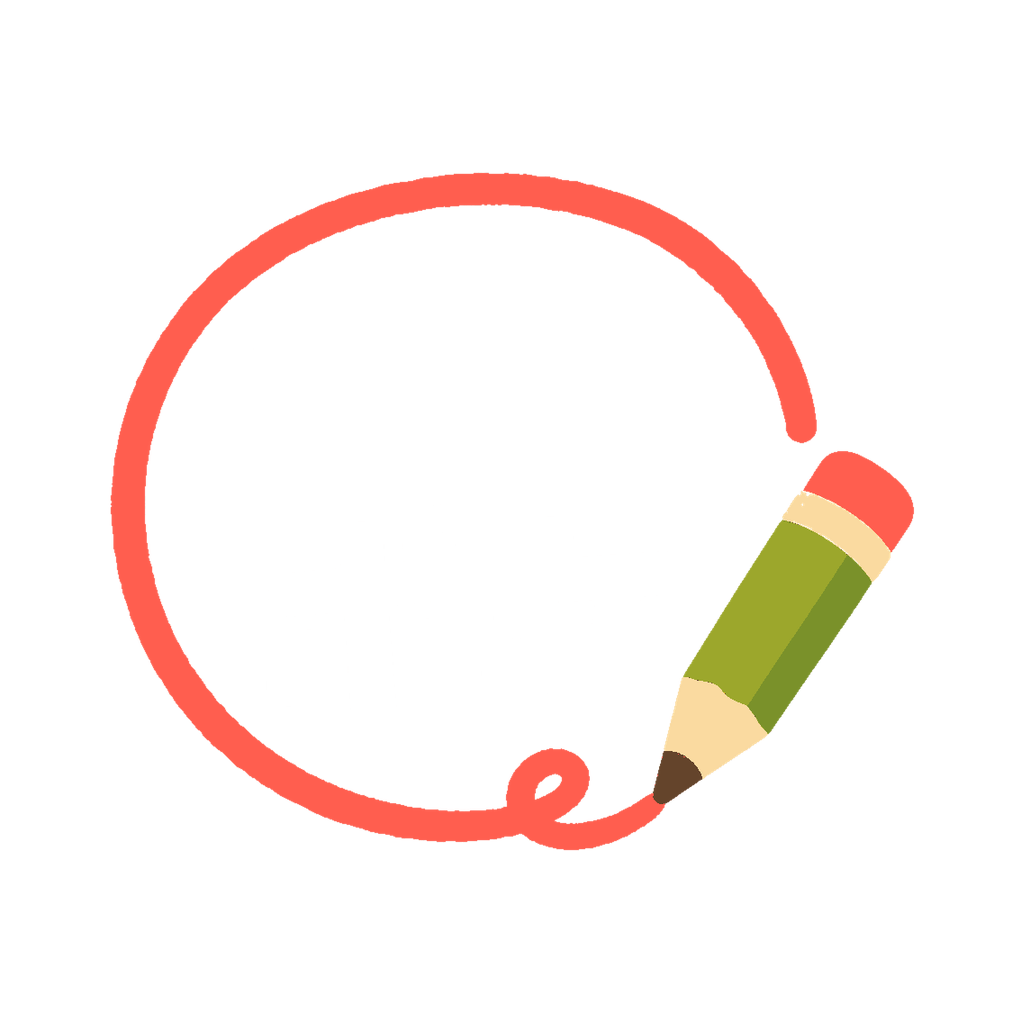
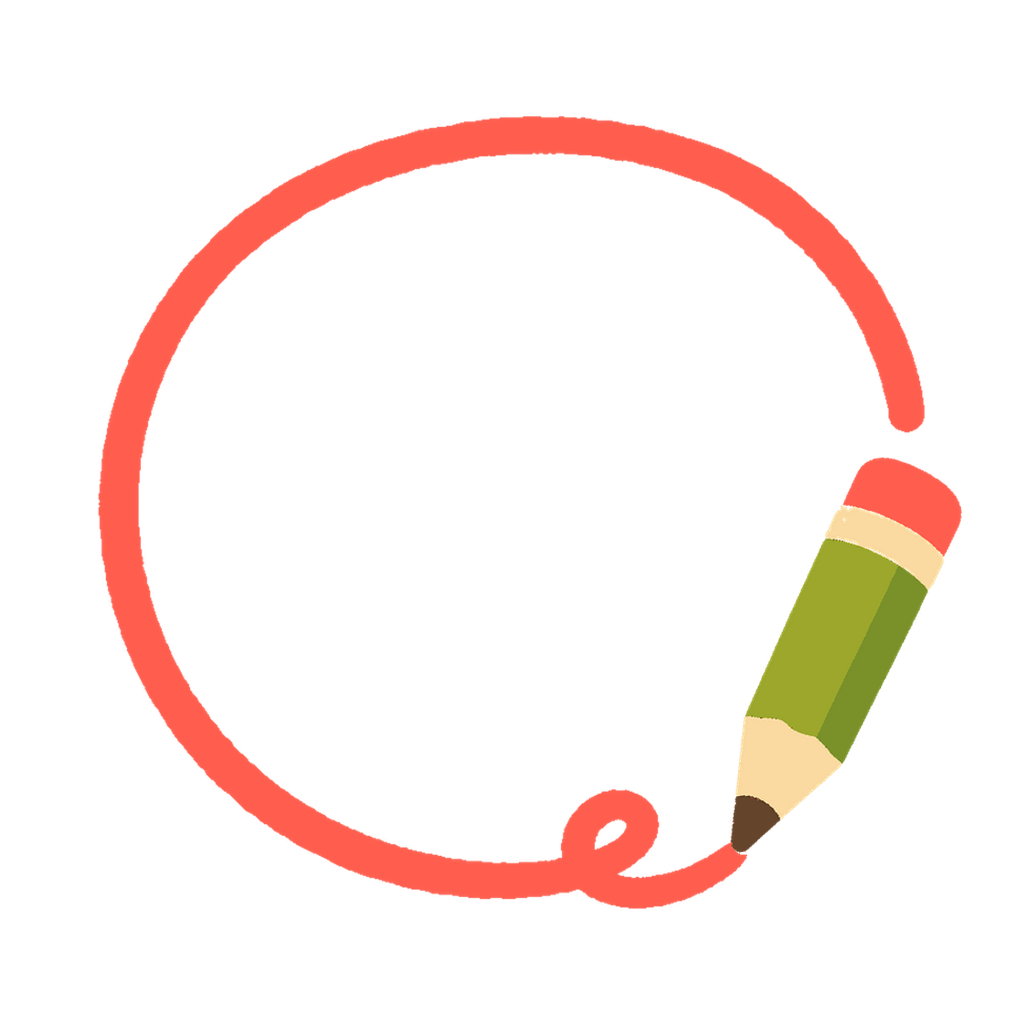
更新確認の読取後基準を修正し、アイコンの文字を中央へ固定 (#18)
* Record file versions after coordinated reads and center icon lettering

* Give cancelled-read regression an explicit result type

Changed region(s): [[0.0938, 0.0938, 0.9375, 0.9062]]

diff --git a/Takupoke/SelectedFilePresenter.swift b/Takupoke/SelectedFilePresenter.swift
@@ -42,17 +42,27 @@ final class SelectedFilePresenter: NSObject, NSFilePresenter {
             self.metadataCoordinator = coordinator
             self.lock.unlock()
             var error: NSError?
-            var version: FileContentVersion?
+            var needsRefresh = false
             coordinator.coordinate(readingItemAt: url, options: .immediatelyAvailableMetadataOnly,
                                    error: &error) { safeURL in
-                version = Self.contentVersion(at: safeURL)
+                // Capture and compare under the same lock as read completion.
+                // A delayed metadata probe must not overwrite a newer baseline.
+                self.lock.lock()
+                defer { self.lock.unlock() }
+                guard self.active else { return }
+                let version = Self.contentVersion(at: safeURL)
+                needsRefresh = self.contentGate.shouldRefresh(version)
+                FileRefreshDiagnostics.shared.record(version == nil ? .metadataUnavailable :
+                    (needsRefresh ? .metadataChanged : .metadataUnchanged), source: self.diagnosticSource)
             }
             self.lock.lock()
             self.metadataCoordinator = nil
-            let needsRefresh = self.active && self.contentGate.shouldRefresh(error == nil ? version : nil)
+            if error != nil && self.active {
+                needsRefresh = true
+                FileRefreshDiagnostics.shared.record(.metadataUnavailable, source: self.diagnosticSource)
+            }
+            needsRefresh = self.active && needsRefresh
             self.lock.unlock()
-            FileRefreshDiagnostics.shared.record(error != nil || version == nil ? .metadataUnavailable :
-                (needsRefresh ? .metadataChanged : .metadataUnchanged), source: self.diagnosticSource)
             if needsRefresh { self.changed() }
         }
     }
@@ -67,11 +77,14 @@ final class SelectedFilePresenter: NSObject, NSFilePresenter {
         coordinator?.cancel()
     }
 
-    func recordContentVersion(at url: URL) {
-        let version = Self.contentVersion(at: url)
+    @discardableResult
+    func recordContentVersion(at url: URL) -> Bool {
         lock.lock()
+        defer { lock.unlock() }
+        guard active else { return false }
+        let version = Self.contentVersion(at: url)
         contentGate.record(version)
-        lock.unlock()
+        return version != nil
     }
 
     private static func contentVersion(at url: URL) -> FileContentVersion? {
@@ -84,13 +97,36 @@ final class SelectedFilePresenter: NSObject, NSFilePresenter {
         return FileContentVersion(identity: identity, generation: generation)
     }
 
-    static func coordinator(for url: URL) -> NSFileCoordinator {
+    /// Keep the presenter matched at the start of a read. Never acknowledge a
+    /// different observation that replaced it while this operation was running.
+    struct ReadAccess {
+        let coordinator: NSFileCoordinator
+        fileprivate let presenter: SelectedFilePresenter?
+
+        /// Call inside the coordinated accessor, after all source handles close.
+        /// A later external write cannot be mistaken for the bytes just read.
+        func read<T>(at url: URL, body: () throws -> T) rethrows -> T {
+            let result = try body()
+            if let presenter {
+                let recorded = presenter.recordContentVersion(at: url)
+                FileRefreshDiagnostics.shared.record(recorded ? .readVersionRecorded : .readVersionUnavailable,
+                                                     source: presenter.diagnosticSource)
+            }
+            return result
+        }
+    }
+
+    static func readAccess(for url: URL) -> ReadAccess {
         let presenter = NSFileCoordinator.filePresenters.compactMap { $0 as? SelectedFilePresenter }.first {
             $0.presentedItemURL?.standardizedFileURL == url.standardizedFileURL
         }
         FileRefreshDiagnostics.shared.record(presenter == nil ? .coordinatorUnmatched : .coordinatorMatched,
                                              source: presenter?.diagnosticSource)
-        return NSFileCoordinator(filePresenter: presenter)
+        return ReadAccess(coordinator: NSFileCoordinator(filePresenter: presenter), presenter: presenter)
+    }
+
+    static func coordinator(for url: URL) -> NSFileCoordinator {
+        readAccess(for: url).coordinator
     }
 
     func presentedItemDidMove(to newURL: URL) {

diff --git a/tests/FileRefreshTests.swift b/tests/FileRefreshTests.swift
@@ -100,6 +100,77 @@ final class FileRefreshTests: XCTestCase {
     }
 
 #if canImport(Darwin)
+    func testReadAcknowledgesMaterializedVersionAndStillDetectsLaterEdit() throws {
+        let root = FileManager.default.temporaryDirectory.appendingPathComponent(UUID().uuidString)
+        try FileManager.default.createDirectory(at: root, withIntermediateDirectories: true)
+        defer { try? FileManager.default.removeItem(at: root) }
+        let file = root.appendingPathComponent("fictional.txt")
+        let bytes = Data("fictional unchanged content".utf8)
+        try bytes.write(to: file)
+        let noRefresh = expectation(description: "delayed notification for already-read content")
+        noRefresh.isInverted = true
+        let externalEdit = expectation(description: "later real edit remains observable")
+        let lock = NSLock()
+        var external = false
+        let presenter = SelectedFilePresenter(url: file) {
+            lock.lock(); let isExternal = external; lock.unlock()
+            if isExternal { externalEdit.fulfill() } else { noRefresh.fulfill() }
+        }
+        presenter.recordContentVersion(at: file)
+        NSFileCoordinator.addFilePresenter(presenter)
+        defer { presenter.deactivate(); NSFileCoordinator.removeFilePresenter(presenter) }
+        let access = SelectedFilePresenter.readAccess(for: file)
+        var error: NSError?
+        // Simulate a provider replacing its local materialization with identical
+        // bytes during access: the source identity changes, the digest does not.
+        access.coordinator.coordinate(writingItemAt: file, options: .forReplacing, error: &error) { url in
+            do {
+                try bytes.write(to: url, options: .atomic)
+                let read = try access.read(at: url) { try Data(contentsOf: url) }
+                XCTAssertEqual(read, bytes)
+            } catch { XCTFail("Synthetic read failed") }
+        }
+        XCTAssertNil(error)
+        for _ in 0..<10 { presenter.presentedItemDidChange() }
+        wait(for: [noRefresh], timeout: 0.5)
+        lock.lock(); external = true; lock.unlock()
+        let writer = NSFileCoordinator(filePresenter: nil)
+        writer.coordinate(writingItemAt: file, options: .forReplacing, error: &error) { url in
+            do { try Data("fictional next content".utf8).write(to: url, options: .atomic) }
+            catch { XCTFail("Synthetic external write failed") }
+        }
+        XCTAssertNil(error)
+        wait(for: [externalEdit], timeout: 5)
+    }
+
+    func testFailedReadDoesNotAcknowledgeUnreadVersion() throws {
+        let root = FileManager.default.temporaryDirectory.appendingPathComponent(UUID().uuidString)
+        try FileManager.default.createDirectory(at: root, withIntermediateDirectories: true)
+        defer { try? FileManager.default.removeItem(at: root) }
+        let file = root.appendingPathComponent("fictional.txt")
+        try Data("before".utf8).write(to: file)
+        let retry = expectation(description: "failed read must leave the change detectable")
+        let presenter = SelectedFilePresenter(url: file) { retry.fulfill() }
+        presenter.recordContentVersion(at: file)
+        NSFileCoordinator.addFilePresenter(presenter)
+        defer { presenter.deactivate(); NSFileCoordinator.removeFilePresenter(presenter) }
+        let access = SelectedFilePresenter.readAccess(for: file)
+        var error: NSError?
+        access.coordinator.coordinate(writingItemAt: file, options: .forReplacing, error: &error) { url in
+            do { try Data("after".utf8).write(to: url, options: .atomic) }
+            catch { XCTFail("Synthetic write failed") }
+            do {
+                let _: Data = try access.read(at: url) { throw CocoaError(.userCancelled) }
+                XCTFail("Cancelled read unexpectedly succeeded")
+            } catch {
+                XCTAssertEqual((error as? CocoaError)?.code, .userCancelled)
+            }
+        }
+        XCTAssertNil(error)
+        presenter.presentedItemDidChange()
+        wait(for: [retry], timeout: 5)
+    }
+
     @MainActor
     func testSuspendedMonitorCannotRestartFromSourceUpdateOrLateWork() async throws {
         var calls: [String] = []

diff --git a/Takupoke/SpecialSchedulesModel+Provider.swift b/Takupoke/SpecialSchedulesModel+Provider.swift
@@ -6,13 +6,14 @@ extension SpecialSchedulesModel {
                                          control: AcquisitionControl) throws -> (String, Int, String) {
         try selection.access { url in
             try control.check()
-            let coordinator = SelectedFilePresenter.coordinator(for: url)
+            let access = SelectedFilePresenter.readAccess(for: url)
+            let coordinator = access.coordinator
             control.attach(coordinator)
             defer { control.attach(nil) }
             var error: NSError?
             var result: Result<(String, Int, String), Error>?
             coordinator.coordinate(readingItemAt: url, options: [], error: &error) { safeURL in
-                result = Result {
+                let copied = Result {
                     try control.check()
                     let values = try safeURL.resourceValues(forKeys: [.isRegularFileKey, .isSymbolicLinkKey])
                     guard values.isRegularFile == true, values.isSymbolicLink != true,
@@ -37,6 +38,13 @@ extension SpecialSchedulesModel {
                     try output.synchronize()
                     return (url.lastPathComponent, count,
                             hasher.finalize().map { String(format: "%02x", $0) }.joined())
+                }
+                result = Result {
+                    try access.read(at: safeURL) {
+                        let value = try copied.get()
+                        try control.check()
+                        return value
+                    }
                 }
             }
             try control.check()

diff --git a/Takupoke/MaterialWorker+Provider.swift b/Takupoke/MaterialWorker+Provider.swift
@@ -26,13 +26,21 @@ extension MaterialWorker {
     private func coordinated<T>(_ url: URL, control: AcquisitionControl,
                                 read: (URL) throws -> T) throws -> T {
         try control.check()
-        let coordinator = SelectedFilePresenter.coordinator(for: url)
+        let access = SelectedFilePresenter.readAccess(for: url)
+        let coordinator = access.coordinator
         control.attach(coordinator)
         defer { control.attach(nil) }
         var coordinationError: NSError?
         var result: Result<T, Error>?
         coordinator.coordinate(readingItemAt: url, options: [], error: &coordinationError) { safeURL in
-            result = Result { try control.check(); return try read(safeURL) }
+            result = Result {
+                try access.read(at: safeURL) {
+                    try control.check()
+                    let value = try read(safeURL)
+                    try control.check()
+                    return value
+                }
+            }
         }
         try control.check()
         if let error = coordinationError { throw error }

diff --git a/Takupoke/FileRefreshDiagnostics.swift b/Takupoke/FileRefreshDiagnostics.swift
@@ -10,6 +10,7 @@ final class FileRefreshDiagnostics: @unchecked Sendable {
         case metadataUnavailable, metadataChanged, metadataUnchanged
         case coordinatorMatched, coordinatorUnmatched, scheduled, delivered
         case refreshStarted, hashSame, hashChanged, refreshFailed, cancelled
+        case readVersionRecorded, readVersionUnavailable
     }
     struct Entry: Codable {
         let sequence: Int

diff --git a/docs/app-icon.md b/docs/app-icon.md
@@ -8,8 +8,10 @@
 
 - 「たくポケ」の文字、赤い線、鉛筆の配置と配色を基にしています。
 - 利用者指定により白い背景・焼き込まれた影を分離し、文字・線・鉛筆の面を均一な色にしています。画像生成で試した素材は採用せず、元画像の色領域を抽出したPNGを使用します。
-- 前景は `Takupoke/AppIcon.icon/Assets/` 内の `ClassicArtwork.png`（赤い線と鉛筆）、`ClassicTaku.png`、`ClassicPoke.png` の3レイヤーです。文字2行と輪の相対位置をそろえています。横位置は輪の中央を基準とし、「ポケ」は文字形状による左寄りを補うため、外接矩形の中央配置から右へ15px（1024px素材上）調整しています。赤い輪と鉛筆はつながりを維持してまとめて配置し直し、文字とともに約90%へ縮めています。文字を輪の中央へ収め、鉛筆の右端にも余白を確保しています。
-- 鉛筆を含む外形全体を中央へそろえるため、3レイヤー共通で左48px・上2px移動しました。1024px素材で左右の余白は各108pxです。文字だけの中央を基準にして絵全体が右へ偏る配置を修正しています。
+- 前景は `Takupoke/AppIcon.icon/Assets/` 内の `ClassicArtwork.png`（赤い輪と鉛筆）、`ClassicTaku.png`、`ClassicPoke.png` の3レイヤーです。
+- 文字を必ずアイコン中央に置きます。1024px素材上で「たく」「ポケ」の各行の可視範囲の中心をx=512にそろえ、2行全体の上端267px・下端757pxから縦の中心もy=512にしています。鉛筆を含む外形の中心に合わせて文字を移動しません。
+- 文字の位置を基準に赤い輪を拡大・配置し、鉛筆は縦横比を保って8度起こし、先端と赤い線のつながりを維持します。元の輪の内側に残った抽出時の小さな点も除去しました。
+- 円形と角丸のプレビュー、大きな表示と60px相当の表示で確認します。円形の外へ前景が欠けないこと、文字と輪・鉛筆が重ならないことを画素でも検査します。円形マスクは確認用で、アプリ素材自体には焼き込みません。
 - 通常は白背景・茶色の「たく」、ダークは黒に近い背景・温かみのあるグレー（#B6AC96）の「たく」です。「ポケ」・赤い線・鉛筆の配色は維持します。`icon.json` のappearance指定を使用し、ホーム画面で選んだアイコン外観に従ってOSが切り替えます。文字2レイヤーはLiquid Glassを無効にし、赤い輪・鉛筆には効果を残します。角丸マスクと有効な効果の描画はOSへ任せます。
 
 クリア／色付き表示の基となるMono（ファイル内の `appearance: tinted`）では、「たく」「ポケ」を不透明な白の濃淡素材として明示します。濃い茶色の自動変換に任せず文字形状を維持するための指定で、通常・ダークの文字色には影響しません。クリアの明暗や壁紙に応じた最終描画はOSが行うため、端末での表示確認を必要とします。
